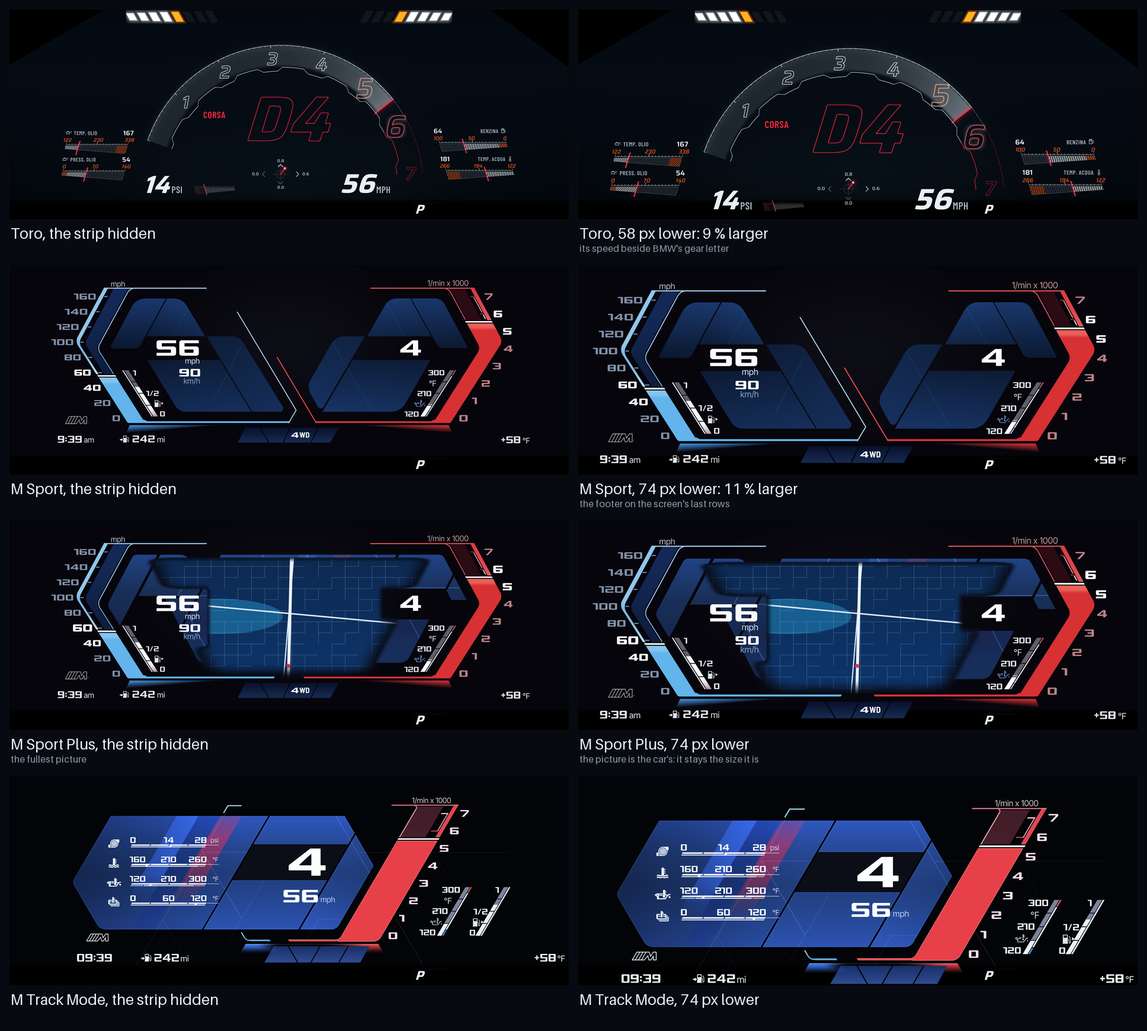
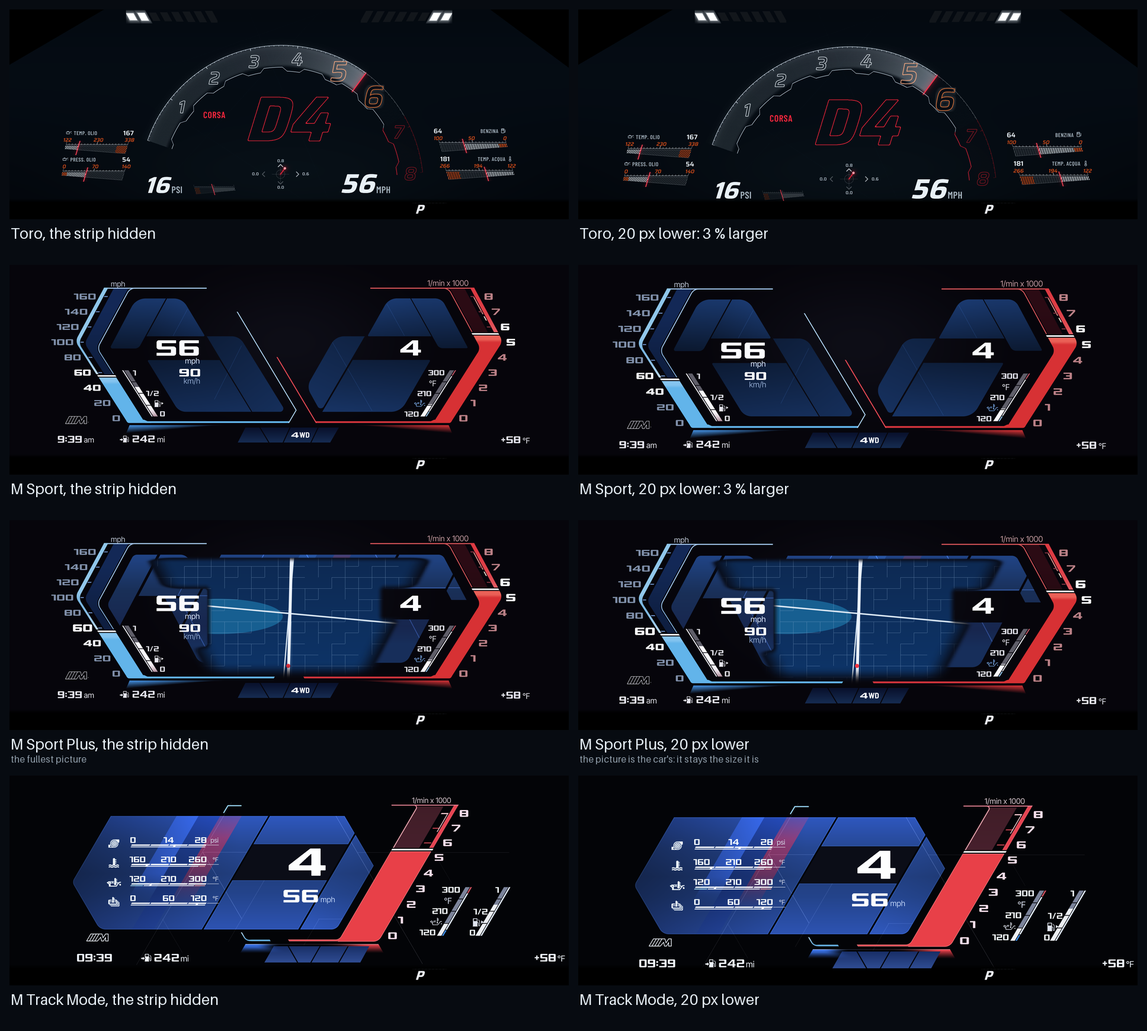
ID8 0.19.1: BMW's bottom strip On / Off as AK Cluster Layouts', BETA lower and enlarge Off or 20 px
A test on a car (photos, 2026-11-26): the trims of 6 and 12 px left pieces of
BMW's own dials at the sides, the wider gap showed the T of COMFORT, and 40 px
lower or more cut M Sport's 260 and brought Toro's boost reading under the
seat belt light. Saved values go to the nearer choice (app.json aliases).

Claude-Session: https://claude.ai/code/session_01QXViLhVqF9rtKtBBVyCzXw

diff --git a/apps/akakingj_cluster_id8/strip.js b/apps/akakingj_cluster_id8/strip.js
@@ -19,12 +19,14 @@
      * (docs/CLUSTER-CONSTRAINTS.md section 2: measured by others on their
      * cars, and seen on this one.)
      *
-     * So the setting ("bottomExtra", its name from when it was a height):
+     * So the setting ("bottomExtra", its name from when it was a height),
+     * On (18) or Off (hide) in the app's menu:
      *
-     *   0, 6, 12, 18   trim: the style's background runs that many px below
-     *                  y 646, right across. 18 ends on the row above the
-     *                  gear's window, so no trim can reach it.
-     *   hide           the trim at its most, and from there down to the
+     *   18             On: the style's background runs 18 px below y 646,
+     *                  right across, ending on the row above the gear's
+     *                  window. (0, 6 and 12 trim less: pieces of BMW's own
+     *                  dials showed at the sides on a car, 2026-11-26.)
+     *   hide           Off: the trim at its most, and from there down to the
      *                  screen's edge two plain covers, one each side of the
      *                  columns kept open for the gear (Panel.GEAR_KEEP: the
      *                  left cover ends a column short of the gear's
@@ -33,11 +35,12 @@
      *                  all that is left of the strip.
      *   hideWide       the same with a wider gap left of the gear
      *                  (Panel.GEAR_KEEP_WIDE, x 1340): what "hide" was up
-     *                  to Beta 5, and proven on this car. The end of a
-     *                  long mode name shows in it ("COMFORT": its T).
+     *                  to Beta 5. The end of a long mode name shows in it
+     *                  ("COMFORT": its T).
      *
-     * Values an earlier version saved: 24 ("a little") is the largest trim,
-     * 48 and 74 are hide.
+     * Values an earlier version saved go to On or Off when the settings are
+     * loaded (app.json aliases: 0, 6, 12 and 24 to 18; 48, 74 and hideWide
+     * to hide); resolve() still reads them all.
      */
     var HIDE = 'hide';
     var HIDE_WIDE = 'hideWide';
@@ -92,7 +95,10 @@
      * drawn into them: `d` px further down and larger by as much,
      * (646 + d) / 646, about the top of the screen's middle - so its top
      * stays where it is, its foot goes d rows lower, and it is the same
-     * picture, only bigger. Off as it comes; it hides the strip itself
+     * picture, only bigger. Off as it comes, and the menu offers 20 px
+     * (further cut M Sport's 260 and brought Toro's boost reading under the
+     * seat belt light on a car, 2026-11-26; saved 40, 58 and 74 go to 20);
+     * it hides the strip itself
      * (src/theme/palette.js), and a style goes only as far as it has room
      * for (its own most: Toro's side gauges reach the screen's edges
      * first).

diff --git a/src/theme/strip.js b/src/theme/strip.js
@@ -18,12 +18,14 @@
      * (docs/CLUSTER-CONSTRAINTS.md section 2: measured by others on their
      * cars, and seen on this one.)
      *
-     * So the setting ("bottomExtra", its name from when it was a height):
+     * So the setting ("bottomExtra", its name from when it was a height),
+     * On (18) or Off (hide) in the app's menu:
      *
-     *   0, 6, 12, 18   trim: the style's background runs that many px below
-     *                  y 646, right across. 18 ends on the row above the
-     *                  gear's window, so no trim can reach it.
-     *   hide           the trim at its most, and from there down to the
+     *   18             On: the style's background runs 18 px below y 646,
+     *                  right across, ending on the row above the gear's
+     *                  window. (0, 6 and 12 trim less: pieces of BMW's own
+     *                  dials showed at the sides on a car, 2026-11-26.)
+     *   hide           Off: the trim at its most, and from there down to the
      *                  screen's edge two plain covers, one each side of the
      *                  columns kept open for the gear (Panel.GEAR_KEEP: the
      *                  left cover ends a column short of the gear's
@@ -32,11 +34,12 @@
      *                  all that is left of the strip.
      *   hideWide       the same with a wider gap left of the gear
      *                  (Panel.GEAR_KEEP_WIDE, x 1340): what "hide" was up
-     *                  to Beta 5, and proven on this car. The end of a
-     *                  long mode name shows in it ("COMFORT": its T).
+     *                  to Beta 5. The end of a long mode name shows in it
+     *                  ("COMFORT": its T).
      *
-     * Values an earlier version saved: 24 ("a little") is the largest trim,
-     * 48 and 74 are hide.
+     * Values an earlier version saved go to On or Off when the settings are
+     * loaded (app.json aliases: 0, 6, 12 and 24 to 18; 48, 74 and hideWide
+     * to hide); resolve() still reads them all.
      */
     var HIDE = 'hide';
     var HIDE_WIDE = 'hideWide';
@@ -91,7 +94,10 @@
      * drawn into them: `d` px further down and larger by as much,
      * (646 + d) / 646, about the top of the screen's middle - so its top
      * stays where it is, its foot goes d rows lower, and it is the same
-     * picture, only bigger. Off as it comes; it hides the strip itself
+     * picture, only bigger. Off as it comes, and the menu offers 20 px
+     * (further cut M Sport's 260 and brought Toro's boost reading under the
+     * seat belt light on a car, 2026-11-26; saved 40, 58 and 74 go to 20);
+     * it hides the strip itself
      * (src/theme/palette.js), and a style goes only as far as it has room
      * for (its own most: Toro's side gauges reach the screen's edges
      * first).

diff --git a/test/strip.test.js b/test/strip.test.js
@@ -27,8 +27,8 @@ const VALUES = offered.concat([0, 6, 12, 18, 24, 48, 74, 'hide', 'hideWide', tru
 /* the two ways to hide it, and the columns each leaves open for the gear */
 const HIDES = [['hide', Panel.GEAR_KEEP], ['hideWide', Panel.GEAR_KEEP_WIDE]];
 
-test('the setting: trims that stop above the gear, and "hide"', () => {
-    assert.deepStrictEqual(offered, ['0', '6', '12', '18', 'hideWide', 'hide']);
+test('the setting: On (the trim at 18, above the gear) and Off ("hide")', () => {
+    assert.deepStrictEqual(offered, ['18', 'hide']);
     assert.strictEqual(Panel.STRIP_TRIM_MAX, 18);
     for (const v of VALUES) {
         const r = Strip.resolve(v);
@@ -46,9 +46,10 @@ test('the setting: trims that stop above the gear, and "hide"', () => {
     assert.deepStrictEqual(Strip.resolve('24'), { trim: 18, hide: false, wide: false });
     assert.deepStrictEqual(Strip.resolve('48'), { trim: 18, hide: true, wide: false });
     assert.deepStrictEqual(Strip.resolve('74'), { trim: 18, hide: true, wide: false });
-    /* and the app's own settings carry them over when they are loaded */
+    /* and the app's own settings carry them over when they are loaded: the trims to On, the ways to hide it to Off */
     const item = spec.settings.find((s) => s.key === 'bottomExtra');
-    assert.deepStrictEqual(item.aliases, { 24: '18', 48: 'hide', 74: 'hide' });
+    assert.deepStrictEqual(item.aliases, { 0: '18', 6: '18', 12: '18', 24: '18', 48: 'hide', 74: 'hide', hideWide: 'hide' });
+    assert.deepStrictEqual(item.options.map((o) => o[1]), ['On', 'Off']);
 });
 
 test('no layer of any style, for any value, reaches into the gear\'s window', () => {

diff --git a/test/lower.test.js b/test/lower.test.js
@@ -91,7 +91,7 @@ test('the setting: px, 0 - 74, off as it comes; on, it hides the strip and keeps
     assert.strictEqual(Strip.foot(r({})), 646);
 });
 
-test('on the app\'s page: a BETA choice in General, off as it comes, every step one a style can take', () => {
+test('on the app\'s page: a BETA choice in General, off as it comes, or 20 px (each style has room for it)', () => {
     const item = spec.settings.find((s) => s.key === 'lower');
     assert.ok(item, 'the setting is declared');
     assert.strictEqual(item.group, 'General');
@@ -101,8 +101,10 @@ test('on the app\'s page: a BETA choice in General, off as it comes, every step 
     assert.strictEqual(values[0], 0);
     assert.deepStrictEqual(values.slice().sort((a, b) => a - b), values, 'in order');
     assert.ok(values.every((v) => Number.isInteger(v) && v >= 0 && v <= Strip.LOWER_MOST));
-    assert.ok(values.indexOf(Strip.LOWER_MOST) >= 0, 'to the screen\'s edge is offered');
-    assert.ok(values.indexOf(Toro.LOWER_MOST) >= 0, 'and Toro\'s own most');
+    /* 40 and more cut M Sport's 260 at the speedometer's top and bring Toro's boost readout under the belt light (a car,
+       2026-11-26): Off and 20 only, and a value saved before goes to 20 */
+    assert.deepStrictEqual(values, [0, 20]);
+    assert.deepStrictEqual(item.aliases, { 40: '20', 58: '20', 74: '20' });
     /* each step says how far and how much larger, and the figures are right */
     item.options.slice(1).forEach((o) => {
         const m = /^(\d+) px lower, (\d+) % larger/.exec(o[1]);

diff --git a/tools/screenshots.py b/tools/screenshots.py
@@ -179,38 +179,30 @@ SHEETS = [
       ("2WD", "", DRIVE + M + "&mPanel=2wd"),
       ("The driving mode", "BMW's own name for it", DRIVE + M + "&mPanel=mode&drive=SPORT"),
       ("Nothing", "", DRIVE + M + "&mPanel=off")]),
-    ("strip", "BMW's bottom strip: how much of it shows",
+    ("strip", "BMW's bottom strip: On or Off",
      "The foot of the panel, all 720 rows, with a stand-in for the car's own strip under the style (hatched: "
      "the rows between a style and the strip's figures, where the rest of BMW's own cluster shows on the "
-     "car). The setting trims those rows by 6, 12 or 18 px, or hides the strip: all of it but BMW's own "
-     "gear letter, which has to stay in view (cover it and the cluster draws a black box in the rev dial). "
-     "The driving mode is written towards the gear, so a long name ends right beside it: Hide it covers to "
-     "one column short of the gear's window, and the wider gap is what it left open up to Beta 5.",
+     "car). On trims those rows by 18 px; Off hides the strip: all of it but BMW's own gear letter, which has "
+     "to stay in view (cover it and the cluster draws a black box in the rev dial).",
      1, 1280, FOOT,
-     [("Show all of it", "the style ends at row 646, as the car's strip begins", DRIVE + M + STRIP + "&bottomExtra=0"),
-      ("Trim its top edge: 6 px", "", DRIVE + M + STRIP + "&bottomExtra=6"),
-      ("Trim its top edge: 12 px", "", DRIVE + M + STRIP + "&bottomExtra=12"),
-      ("Trim its top edge: 18 px", "the most a trim can be: the row above the gear's own", DRIVE + M + STRIP + "&bottomExtra=18"),
-      ("Hide it, a wider gap left beside the gear", "as up to Beta 5: the end of a long mode name shows "
-       "(here the T of COMFORT)", DRIVE + M + STRIP + "&bottomExtra=hideWide"),
-      ("Hide it", "BMW's gear letter is all that is left; warning lamps still show over the covers",
+     [("On", "18 px trimmed: the row above the gear's own", DRIVE + M + STRIP + "&bottomExtra=18"),
+      ("Off", "BMW's gear letter is all that is left; warning lamps still show over the covers",
        DRIVE + M + STRIP + "&bottomExtra=hide"),
-      ("Hide it, in Toro", "the same rule in every style", DRIVE + STRIP + "&bottomExtra=hide")]),
+      ("Off, in Toro", "the same rule in every style", DRIVE + STRIP + "&bottomExtra=hide")]),
     ("lowered", "BETA: the cluster lowered, and larger by as much",
-     "With BMW's strip hidden, the rows it stood in hold nothing but black (left). Lowered (right) the whole "
-     "style is drawn into them: its foot that many rows further down and all of it larger by the same amount, "
-     "about the top of the screen's middle - the same picture, bigger. The M styles go to the screen's edge, "
-     "74 px; Toro goes 58, where it stands at the size its brief drew it. BMW's gear letter stays where it is: "
-     "nothing is ever drawn in its columns. All 720 rows are shown, over a stand-in for the car's strip.",
+     "With BMW's strip hidden, the rows it stood in hold nothing but black (left). Lowered 20 px (right) the "
+     "whole style is drawn into them: its foot 20 rows further down and all of it 3 % larger, about the top of "
+     "the screen's middle - the same picture, bigger. BMW's gear letter stays where it is: nothing is ever "
+     "drawn in its columns. All 720 rows are shown, over a stand-in for the car's strip.",
      2, 944, (0, 0, 1920, 720),
      [("Toro, the strip hidden", "", DRIVE + STRIP + "&bottomExtra=hide"),
-      ("Toro, 58 px lower: 9 % larger", "its speed beside BMW's gear letter", DRIVE + STRIP + "&lower=58"),
+      ("Toro, 20 px lower: 3 % larger", "", DRIVE + STRIP + "&lower=20"),
       ("M Sport, the strip hidden", "", DRIVE + M + STRIP + "&bottomExtra=hide"),
-      ("M Sport, 74 px lower: 11 % larger", "the footer on the screen's last rows", DRIVE + M + STRIP + "&lower=74"),
+      ("M Sport, 20 px lower: 3 % larger", "", DRIVE + M + STRIP + "&lower=20"),
       ("M Sport Plus, the strip hidden", "the fullest picture", DRIVE + MP + STRIP + MAP + "&centreSize=most&bottomExtra=hide"),
-      ("M Sport Plus, 74 px lower", "the picture is the car's: it stays the size it is", DRIVE + MP + STRIP + MAP + "&centreSize=most&lower=74"),
+      ("M Sport Plus, 20 px lower", "the picture is the car's: it stays the size it is", DRIVE + MP + STRIP + MAP + "&centreSize=most&lower=20"),
       ("M Track Mode, the strip hidden", "", DRIVE + MT + STRIP + "&bottomExtra=hide"),
-      ("M Track Mode, 74 px lower", "", DRIVE + MT + STRIP + "&lower=74")]),
+      ("M Track Mode, 20 px lower", "", DRIVE + MT + STRIP + "&lower=20")]),
     ("toro-opening", "Toro: how much of the picture shows",
      "The opening behind the dial in its three sizes, over a map by night and by day. The larger two are the "
      "inside of the dial: they stop short of the band, so its numbers keep the dark they are drawn on, and "

diff --git a/docs/IN-CAR-TEST.md b/docs/IN-CAR-TEST.md
@@ -86,20 +86,21 @@ the whole style further down, into the rows BMW's strip leaves when it is
 hidden, and larger by as much. **Start parked, and start small.** The one
 thing to watch for above all is BMW's **black box in the rev dial**: it
 means something of ours stood over the gear's window. The option is built
-never to do that (it keeps to the columns *Hide it* already drives on),
-but no car has run it yet.
+never to do that (it keeps to the columns *Off* drives on). From AK 0.19.1 it
+offers 20 px only: on a car (2026-11-26) 40 px and more cut the top of
+M Sport's speedometer (its 260) and brought Toro's boost reading under the
+seat belt light.
 
 | # | Do | Expect |
 |---|---|---|
 | W1 | Any style on the cluster. *BETA: lower and enlarge the cluster* → **20 px lower** | Within half a second the style is a little larger and reaches further down. BMW's strip is gone but for its **gear letter**, which stands where it always does. **No black box** in the rev dial |
 | W2 | The top of the style | Where it was: only the foot has moved. Nothing is stretched - circles are still circles |
-| W3 | **40**, then **58**, then **74 px lower** | Larger each time (6, 9, 11 %). M Sport, M Sport Plus and M Track Mode go to the screen's edge at 74; **Toro stops at 58** and looks the same at 74 |
-| W4 | Shift through P R N D S and M1 … at the largest setting | BMW's gear letter changes in its place and is never covered or cut. Still no black box |
-| W5 | Toro at 58: the speed, bottom right | It stands just left of BMW's gear letter, and its unit (MPH or KM/H) does not touch the letter |
-| W6 | Toro at 58, at the rev limiter with *Shake the screen* on **Hard** | The whole instrument shakes; BMW's gear letter does not, and nothing jumps over it. The red flash takes in the whole instrument, with a black gap where the gear letter is |
-| W7 | An M style at 74: the footer (time, range, outside temperature) | All of it on the screen, on its last rows. Say if the screen's own edge cuts any figure |
-| W8 | An M style, lowered: the speed scale's numerals on the left | They now reach the place the **tyre pressure lamp** lights. If that lamp is on, it is drawn over them - that is expected; say if it is a nuisance |
-| W9 | A map or the camera in the middle, lowered | The picture is where it always is and the same size; the style's window round it is a little larger. Nothing of BMW's own cluster shows at the window's edges - look closely at M Sport Plus with *Centre picture: how much shows → More* and *Fullest* |
+| W3 | Shift through P R N D S and M1 … at 20 px | BMW's gear letter changes in its place and is never covered or cut. Still no black box |
+| W4 | Toro at 20: the speed, bottom right | It stands just left of BMW's gear letter, and its unit (MPH or KM/H) does not touch the letter |
+| W5 | Toro at 20, at the rev limiter with *Shake the screen* on **Hard** | The whole instrument shakes; BMW's gear letter does not, and nothing jumps over it. The red flash takes in the whole instrument, with a black gap where the gear letter is |
+| W6 | An M style at 20: the footer (time, range, outside temperature) and the speedometer's top (260) | All of it on the screen. Say if anything is cut |
+| W7 | An M style, lowered: the speed scale's numerals on the left | They now reach the place the **tyre pressure lamp** lights. If that lamp is on, it is drawn over them - that is expected; say if it is a nuisance |
+| W8 | A map or the camera in the middle, lowered | The picture is where it always is and the same size; the style's window round it is a little larger. Nothing of BMW's own cluster shows at the window's edges - look closely at M Sport Plus with *Centre picture: how much shows → More* and *Fullest* |
 | W10 | M Track Mode at 74 with a map in the wing | The picture begins where it begins, on a soft edge, not a hard line |
 | W11 | The start-up message (*Settings → General → Start-up message*), lowered | The whole style is dimmed behind it, the footer too |
 | W12 | Set it back to **Off** | Exactly the style as it was, and *BMW's bottom strip* as you had it set |
@@ -258,8 +259,8 @@ cluster has restarted.
 | B1 | iDrive's menu: move the selector onto MGU Styles | The tile lights up like the others. **If it still does not, say so**: the fix is the icon's plate standing 10 px in from the tile's edge, reasoned from how the menu draws, not seen on the car |
 | B2 | AK 0.19.0: open MGU Styles | As AK Cluster Layouts: the header with *Settings*, the page (the design, its places, a card for each design), the bar with *Cluster on / off* and *Logs*. **If it looks different from Cluster Layouts' frame, say so** (and whether the Store shows *mgu-render* installed) |
 | B3 | AK 0.19.0: controller and touch: a card, a place, *Settings* → *General* → a row, back, *Logs*, back | Every place can be reached both ways; a place or a row opens its list of values; Settings lists on / off, Style and Skin, then *General* and the style in use's own only (*Toro*, *M Sport*, *M Sport Plus* or *M Track*); back in a group returns to the list's top; pushed left on Logs returns to the page |
-| B4 | Settings → General → BMW's bottom strip → *Show all of it*, then *Trim its top edge* 6, 12 and 18 px | Each trim hides a little more of what shows above the strip's figures; the figures themselves stay whole. **No black box in the rev dial at any of them.** Say which looks right |
-| B5 | BMW's bottom strip → *Hide it* | BMW's range, clock, street name, driving mode and outside temperature are gone; **only BMW's gear letter is left**, on black. Warning lamps (seat belt and the rest) still show when lit. **No black box in the rev dial.** If a box appears with this setting, go back to *Show all of it* and say so — it would mean this car's gear window is wider than measured |
+| B4 | Settings → General → BMW's bottom strip → *On* | The strip's figures show whole, with nothing of BMW's own dials above them. **No black box in the rev dial** |
+| B5 | BMW's bottom strip → *Off* | BMW's range, clock, street name, driving mode and outside temperature are gone; **only BMW's gear letter is left**, on black. Warning lamps (seat belt and the rest) still show when lit. **No black box in the rev dial.** If a box appears with this setting, go back to *On* and say so — it would mean this car's gear window is wider than measured |
 | B6 | Look at the top of M Sport's oil strip (`300 °F`) | Nothing over it. (In Beta 3's photographs a black box hid it: that was the cluster's fallback gear box) |
 | B7 | The page (M Sport) → Footer, left / middle / right: try *Engine speed*, *Fuel economy*, *Intake air temperature*, *Nothing* | Each place shows what was chosen, with its unit; *Nothing* leaves the place empty. With BMW's strip in view nothing need be told twice. Intake air and battery voltage show `--` unless BeeM-Flash is running and feeding them. **Compare the economy figure with BMW's own trip computer (average consumption) and say if it differs** |
 | B8 | M SPORT → Footer panel shows → 4WD (or Nothing); The gear's place shows → *Engine speed* and *Nothing* | The panel no longer repeats the driving mode. In the gear's place the revs stand as a figure on the same black bar, or nothing does; BMW's gear letter below is then the only gear |

diff --git a/README.md b/README.md
@@ -106,7 +106,7 @@ from one start to the next), the style and the skin at the top, then **General**
   app sets it for both apps), the limiter flash
   (past the shift point the shift lights flash and the speed and the gear blink red, in every style), the
   **cold engine** guard (the shift point and the red zone lower while the oil is cold),
-  BMW's bottom strip (show, trim or hide it), **electric range** for
+  BMW's bottom strip (on or off), **electric range** for
   plug-in hybrids and fully electric cars (*Automatic* as it comes: on once
   the car shows it is a plug-in hybrid - its drive modes, or eDrive Live
   sharing its battery's power - as Cluster Layouts finds one; *Car → Plug-in
@@ -283,13 +283,10 @@ it sets is shown here with "Car profile" beside it and changed there:
 | Cold-engine rev guard, Cold rev limit, Oil is warm at | Cold engine: lower the shift point and red zone, Cold engine: shift point with the oil at 30 °C, Cold engine: oil warm at (as Cluster Layouts names them) |
 | Engine, the units, the clock, the skin | the same |
 
-## Trimming or hiding BMW's bottom strip
+## Showing or hiding BMW's bottom strip
 
 BMW's own cluster keeps a strip along the bottom of the screen: range,
-clock, street name, driving mode, gear and outside temperature. As it
-comes, MGU Styles trims 18 px off its top edge, so nothing of BMW's own
-cluster shows between the style and the strip's figures. To show more of
-it, or less:
+clock, street name, driving mode, gear and outside temperature.
 
 1. Open the app from iDrive's menu.
 2. Press **Settings**, then **General**.
@@ -298,10 +295,8 @@ it, or less:
 
 | Choice | What you get |
 |---|---|
-| **Show all of it** | The strip as BMW draws it |
-| **Trim its top edge: 6 px / 12 px / 18 px** | The style runs a little further down and covers that much of the strip's top edge. The app comes with 18, the most a trim can be |
-| **Hide it (BMW's own gear letter stays)** | Everything in the strip is covered in black except BMW's gear letter |
-| **Hide it, a wider gap left beside the gear** | The same, with more room left open around the gear letter. The end of a long driving-mode name (the T of COMFORT) shows in that gap |
+| **On** (as it comes) | The strip, with 18 px trimmed off its top edge so nothing of BMW's own cluster shows between the style and the strip's figures |
+| **Off** | Everything in the strip is covered in black except BMW's gear letter |
 
 The change shows on the cluster within about half a second, for every
 style. Nothing is set on the cluster itself.
@@ -320,7 +315,7 @@ the app's page → *Footer, left / middle / right* (time, range,
 outside temperature and more), and in Settings → M Sport or M Sport Plus
 *The gear's place shows* if you would rather not see the gear twice.
 
-![BMW's bottom strip at each setting](docs/screenshots/strip.png)
+![BMW's bottom strip On and Off](docs/screenshots/strip.png)
 
 ### BETA: lower and enlarge the cluster
 
@@ -328,20 +323,18 @@ With the strip hidden, the rows it stood in are plain black. This option
 draws the whole style into them — lower, and larger by the same amount:
 
 1. Open the app, press **Settings**, then **General**.
-2. Press **BETA: lower and enlarge the cluster** and pick an amount:
-   **20, 40, 58 or 74 px lower** (3, 6, 9 or 11 % larger). **Off** puts it
-   back exactly as it was.
+2. Press **BETA: lower and enlarge the cluster** and pick **20 px lower,
+   3 % larger**. **Off** puts it back exactly as it was.
 
 It hides BMW's strip for you; **BMW's gear letter stays**, and nothing is
 ever drawn over it. The top of the style stays where it is and nothing is
-stretched: it is the same picture, bigger. The M styles go to the screen's
-edge at 74; **Toro goes 58** (any further and its side gauges would leave
-the screen), so 74 looks the same as 58 there.
+stretched: it is the same picture, bigger. Further than 20 px is not
+offered: on a car, 40 px and more cut the top of M Sport's speedometer
+(its 260) and brought Toro's boost reading under the seat belt light.
 
-![Each style with the strip hidden, and lowered as far as it goes](docs/screenshots/lowered.png)
+![Each style with the strip hidden, and lowered 20 px](docs/screenshots/lowered.png)
 
-**It is a BETA and has not been on a car yet.** Try it parked first, start
-with 20, and look at the rev dial: if BMW's **black box** appears there,
+**It is a BETA.** Try it parked first and look at the rev dial: if BMW's **black box** appears there,
 set the option back to **Off**, lock the car and let it sleep once — and
 please report it with your car, the style and the amount. Two things are
 expected and are not faults: lowered, an M style's speed numbers reach the
@@ -352,10 +345,10 @@ or camera picture in the middle stays the size the car draws it.
 
 ### If a black box appears in the rev dial
 
-It should not: the app never covers the gear letter. If you see one after
-choosing *Hide it*, choose *Hide it, a wider gap left beside the gear*,
-lock the car and let it sleep once (the box can stay until the cluster
-restarts) — and please report it, with your car and model year.
+It should not: the app never covers the gear letter. If you see one with
+*BMW's bottom strip* set to *Off*, set it to *On*, lock the car and let it
+sleep once (the box can stay until the cluster restarts) — and please
+report it, with your car and model year.
 
 ## Is it still as smooth?
 

diff --git a/docs/CLUSTER-CONSTRAINTS.md b/docs/CLUSTER-CONSTRAINTS.md
@@ -77,19 +77,17 @@ style, set by *BMW's bottom strip*):
 
 | Setting | What is drawn below `y = 646` |
 |---|---|
-| Show all of it (default) | nothing: every style ends at 646 |
-| Trim its top edge: 6, 12 or 18 px | the style's background runs on that far, right across, fading to black. 18 covers rows 646-663 and stops a row short of the gear's window: **no trim can reach it** (`STRIP_TRIM_MAX`) |
-| Hide it, a wider gap left beside the gear | the trim at its most, and from `y = 664` to the screen's edge two plain black covers, `x 0-1340` and `x 1500-1920` (`GEAR_KEEP_WIDE`: the gear's window with 45 and 38 px to spare). What *Hide it* was up to Beta 5, and the gap that has been driven on this car. The end of a long mode name shows in it |
-| Hide it | the same with the left cover run on to **`x 1384`: one column short of the gear's window**, as the trim is one row short of it (`GEAR_KEEP`, `x 1384-1500`). The columns between are never drawn on, so **BMW's own gear letter stays**; it is all that is left of the strip. Not yet driven: if a box appears, the wider gap is the answer, and the measurement above does not hold for this car |
+| On (default) | the style's background runs on 18 px, right across, fading to black: rows 646-663, a row short of the gear's window: **no trim can reach it** (`STRIP_TRIM_MAX`). Less (0, 6, 12 px, offered up to AK 0.19.0) left pieces of BMW's own dials at the sides on a car |
+| Off | the same, and from `y = 664` to the screen's edge two plain black covers, the left one run on to **`x 1384`: one column short of the gear's window**, as the trim is one row short of it (`GEAR_KEEP`, `x 1384-1500`). The columns between are never drawn on, so **BMW's own gear letter stays**; it is all that is left of the strip. (The wider gap of up to Beta 5, `GEAR_KEEP_WIDE`, `x 0-1340`, showed the end of a long mode name, the T of COMFORT.) |
 
 The covers and the backgrounds are marked `still`, so the limiter's shake
 (§9) never carries one over the gear. `test/strip.test.js` holds every
-value, including the ones older versions saved (24 becomes 18; 48 and 74
-become *hide*), to the rule in every style; and the simulated car
+value, including the ones older versions saved (0, 6, 12 and 24 become 18;
+48, 74 and hideWide become *hide*), to the rule in every style; and the simulated car
 (`tools/car-sim.js`) holds every rectangle the renderer is ever given — a
 new layer, or one the shake has moved — against the window, and reports
 how near anything came (1 px above, 1 px to its left, 38 px to its right
-with *Hide it*). The shake moves a layer down by 5 px at its hardest, so
+with *Off*). The shake moves a layer down by 5 px at its hardest, so
 the lowest it carries anything is `y = 651`, 14 rows above the window.
 
 Everything else of ours — every reading, line and figure — still ends at

diff --git a/CHANGELOG.md b/CHANGELOG.md
@@ -13,6 +13,16 @@ what to follow, in place of **main**.
 
 Branches: `main` is what the Store installs; `test` is worked on, checked on the car, then moved to `main`.
 
+## AK 0.19.1
+
+- **BMW's bottom strip is On or Off, as AK Cluster Layouts'.** *On* (as it comes) shows the strip with 18 px trimmed
+  off its top edge; *Off* hides it but BMW's gear letter. A test on a car (photos, 2026-11-26): the trims of 6 and
+  12 px left pieces of BMW's own dials at the sides, and the wider gap beside the gear showed the T of COMFORT. A
+  choice saved before goes to *On* (show all of it, any trim) or *Off* (either way to hide it).
+- **BETA: lower and enlarge the cluster offers Off and 20 px (3 % larger).** On the same car 40 px and more cut the top
+  of M Sport's speedometer (its 260) and brought Toro's boost reading under the seat belt light. A saved 40, 58 or 74
+  goes to 20.
+
 ## AK 0.19.0
 
 - **The app's menu, as AK Cluster Layouts'.** The page sits in the kit's frame: its header, with *Settings*, and the
